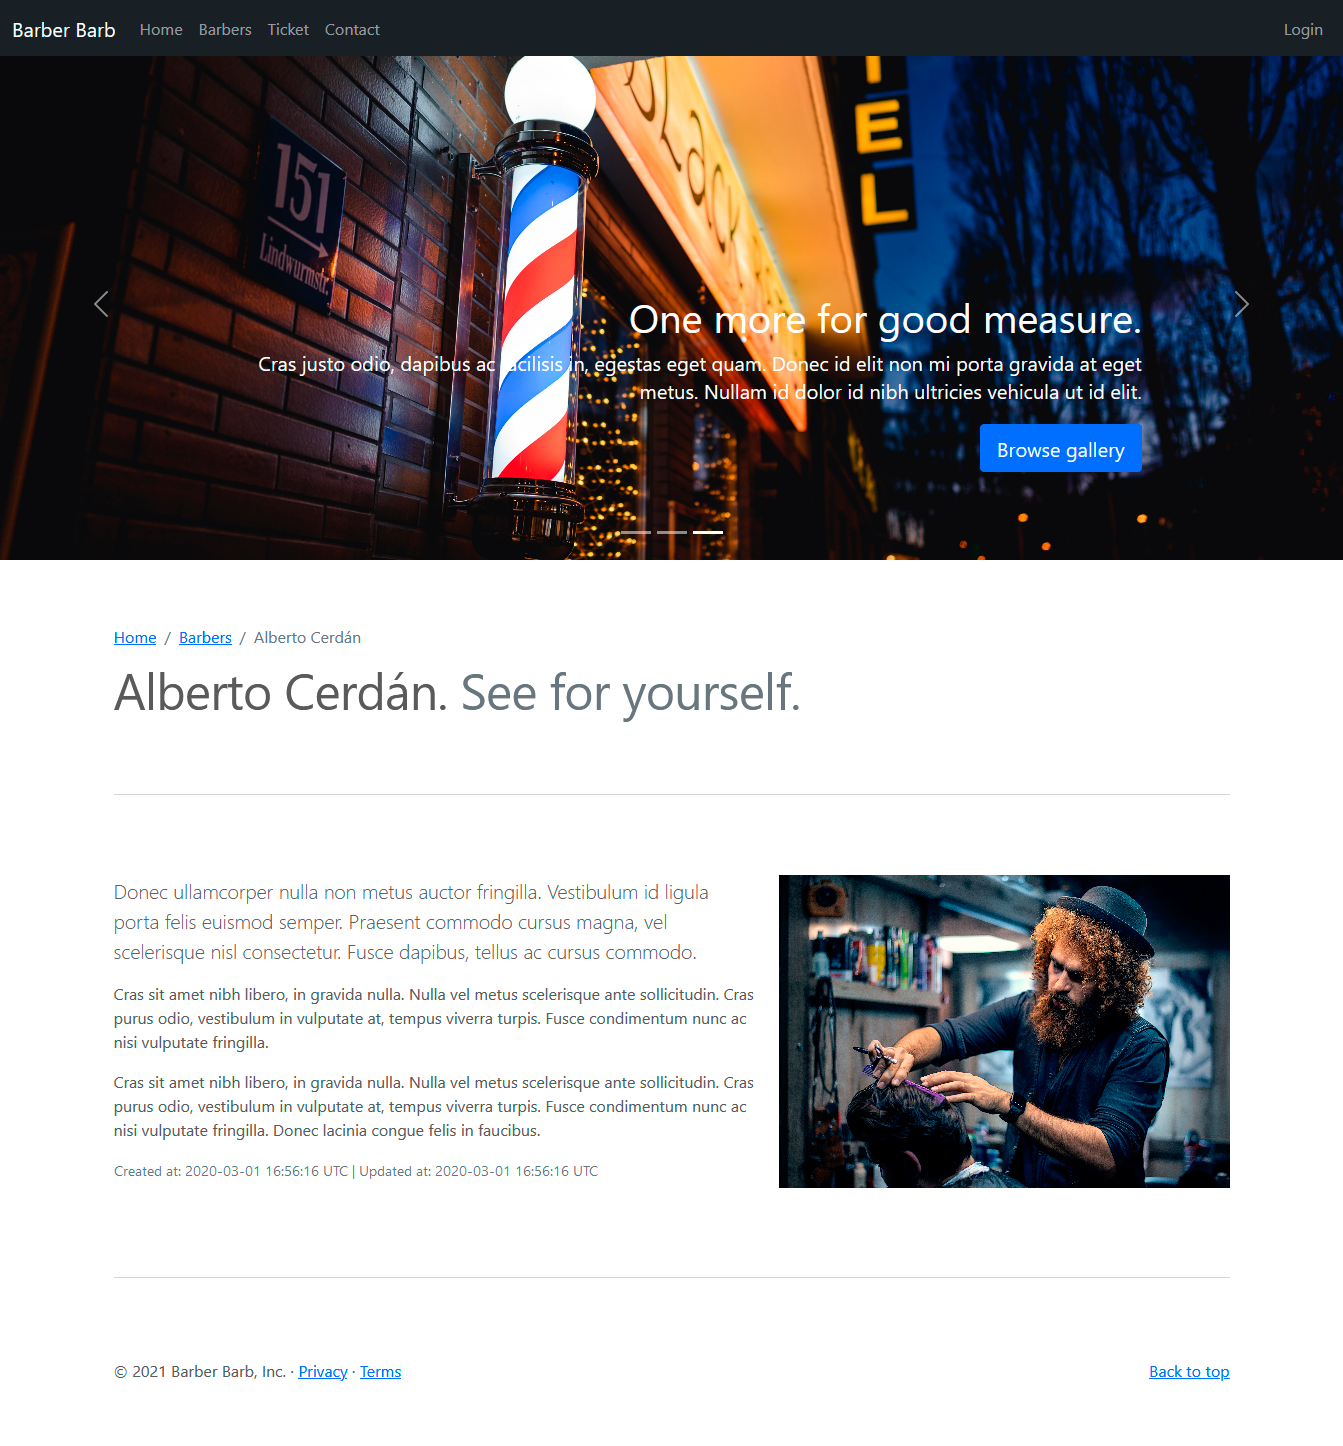
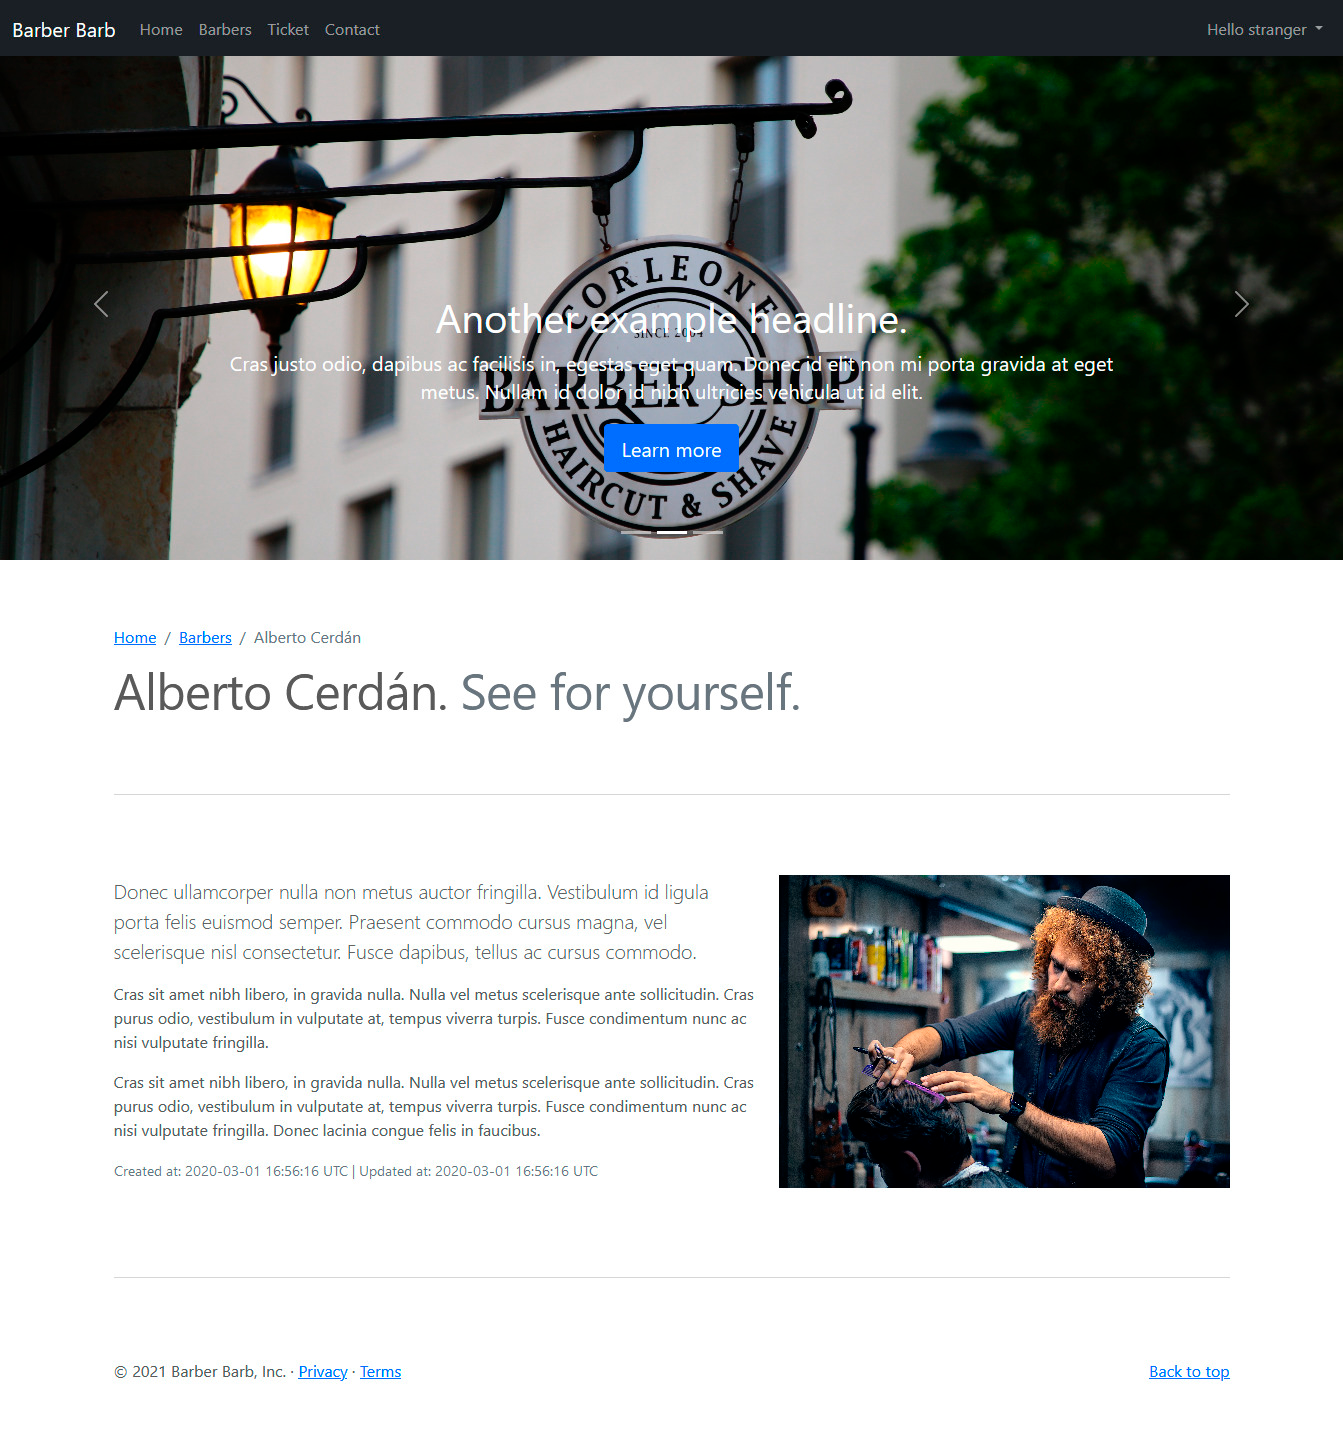
Add session based autorization

Changed region(s): [[0.0, 0.0, 1.0, 0.4046]]

diff --git a/public/assets/css/signin.css b/public/assets/css/signin.css
@@ -1,0 +1,42 @@
+html,
+body {
+  height: 100%;
+}
+
+body {
+  display: flex;
+  align-items: center;
+  padding-top: 40px;
+  padding-bottom: 40px;
+  background-color: #f5f5f5;
+}
+
+.form-signin {
+  width: 100%;
+  max-width: 330px;
+  padding: 15px;
+  margin: auto;
+}
+.form-signin .checkbox {
+  font-weight: 400;
+}
+.form-signin .form-control {
+  position: relative;
+  box-sizing: border-box;
+  height: auto;
+  padding: 10px;
+  font-size: 16px;
+}
+.form-signin .form-control:focus {
+  z-index: 2;
+}
+.form-signin input[type="email"] {
+  margin-bottom: -1px;
+  border-bottom-right-radius: 0;
+  border-bottom-left-radius: 0;
+}
+.form-signin input[type="password"] {
+  margin-bottom: 10px;
+  border-top-left-radius: 0;
+  border-top-right-radius: 0;
+}

diff --git a/public/assets/js/app.js b/public/assets/js/app.js
@@ -26,3 +26,9 @@ $(function(){
       }, false)
     })
 })()
+
+// Enable dismissal of an alert via JavaScript
+var alertList = document.querySelectorAll('.alert')
+alertList.forEach(function (alert) {
+  new bootstrap.Alert(alert)
+})

diff --git a/app.rb b/app.rb
@@ -19,10 +19,26 @@ class Barber < ActiveRecord:: Base
 end
 
 configure do
+  enable :sessions
+end
+
+helpers do
+  def username
+    session[:identity] ? session[:identity] : 'Hello stranger'
+  end
 end
 
 before do
   @barbers = Barber.all
+end
+
+before '/secure/*' do
+  unless session[:identity]
+    session[:previous_url] = request.path
+    @message = 'Sorry, you need to be logged in to visit ' + request.path
+
+    erb :login, :layout => false
+  end
 end
 
 get '/' do
@@ -41,11 +57,13 @@ end
 
 get '/ticket' do
   @c = Customer.new
+
   erb :ticket
 end
 
 post '/ticket' do
   @c = Customer.new params[:customer]
+
   if @c.save
     return erb '<hr class="featurette-divider">
       ¡Gracias! El ticket está creado.
@@ -53,6 +71,7 @@ post '/ticket' do
   end
 
   @error = @c.errors.full_messages.first
+
   erb :contact
 end
 
@@ -99,8 +118,26 @@ post '/contact' do
     <hr class="featurette-divider">'
 end
 
-get '/customers' do
+get '/secure/customers' do
+  @message = 'This is a secret place that only ' + session[:identity] + ' has access to!'
   @customers = Customer.order "created_at DESC"
 
   erb :customers
+end
+
+get '/login/form' do
+  erb :login, :layout => false
+end
+
+post '/login/attempt' do
+  session[:identity] = params['username']
+  where_user_came_from = session[:previous_url] || '/'
+  redirect to where_user_came_from
+end
+
+get '/logout' do
+  session.delete(:identity)
+  @message = 'Logged out'
+
+  erb :home
 end

diff --git a/README.md b/README.md
@@ -5,7 +5,6 @@
 * Ruby
 * Sinatra
 * Bootstrap
-* JavaScript
 * SQLite
 
 #### De la caja:
@@ -15,6 +14,7 @@
 * Formulario de ticket
 * Formulario de contacto
 * Verificación de formularios del lado de cliente y del servidor
+* autorización basada en sesión
 * Lista de consumidores
 
 #### Licensia:
@@ -43,6 +43,9 @@ Formulario de contacto ->
 
 Verificación del formulario ->
 ![Verificación del formulario](screenshots/contact_check.png "Verificación del formulario")
+
+Login ->
+![Login](screenshots/login.png "Login")
 
 Lista de citas ->
 ![Lista de citas](screenshots/customers.png "Lista de citas")
